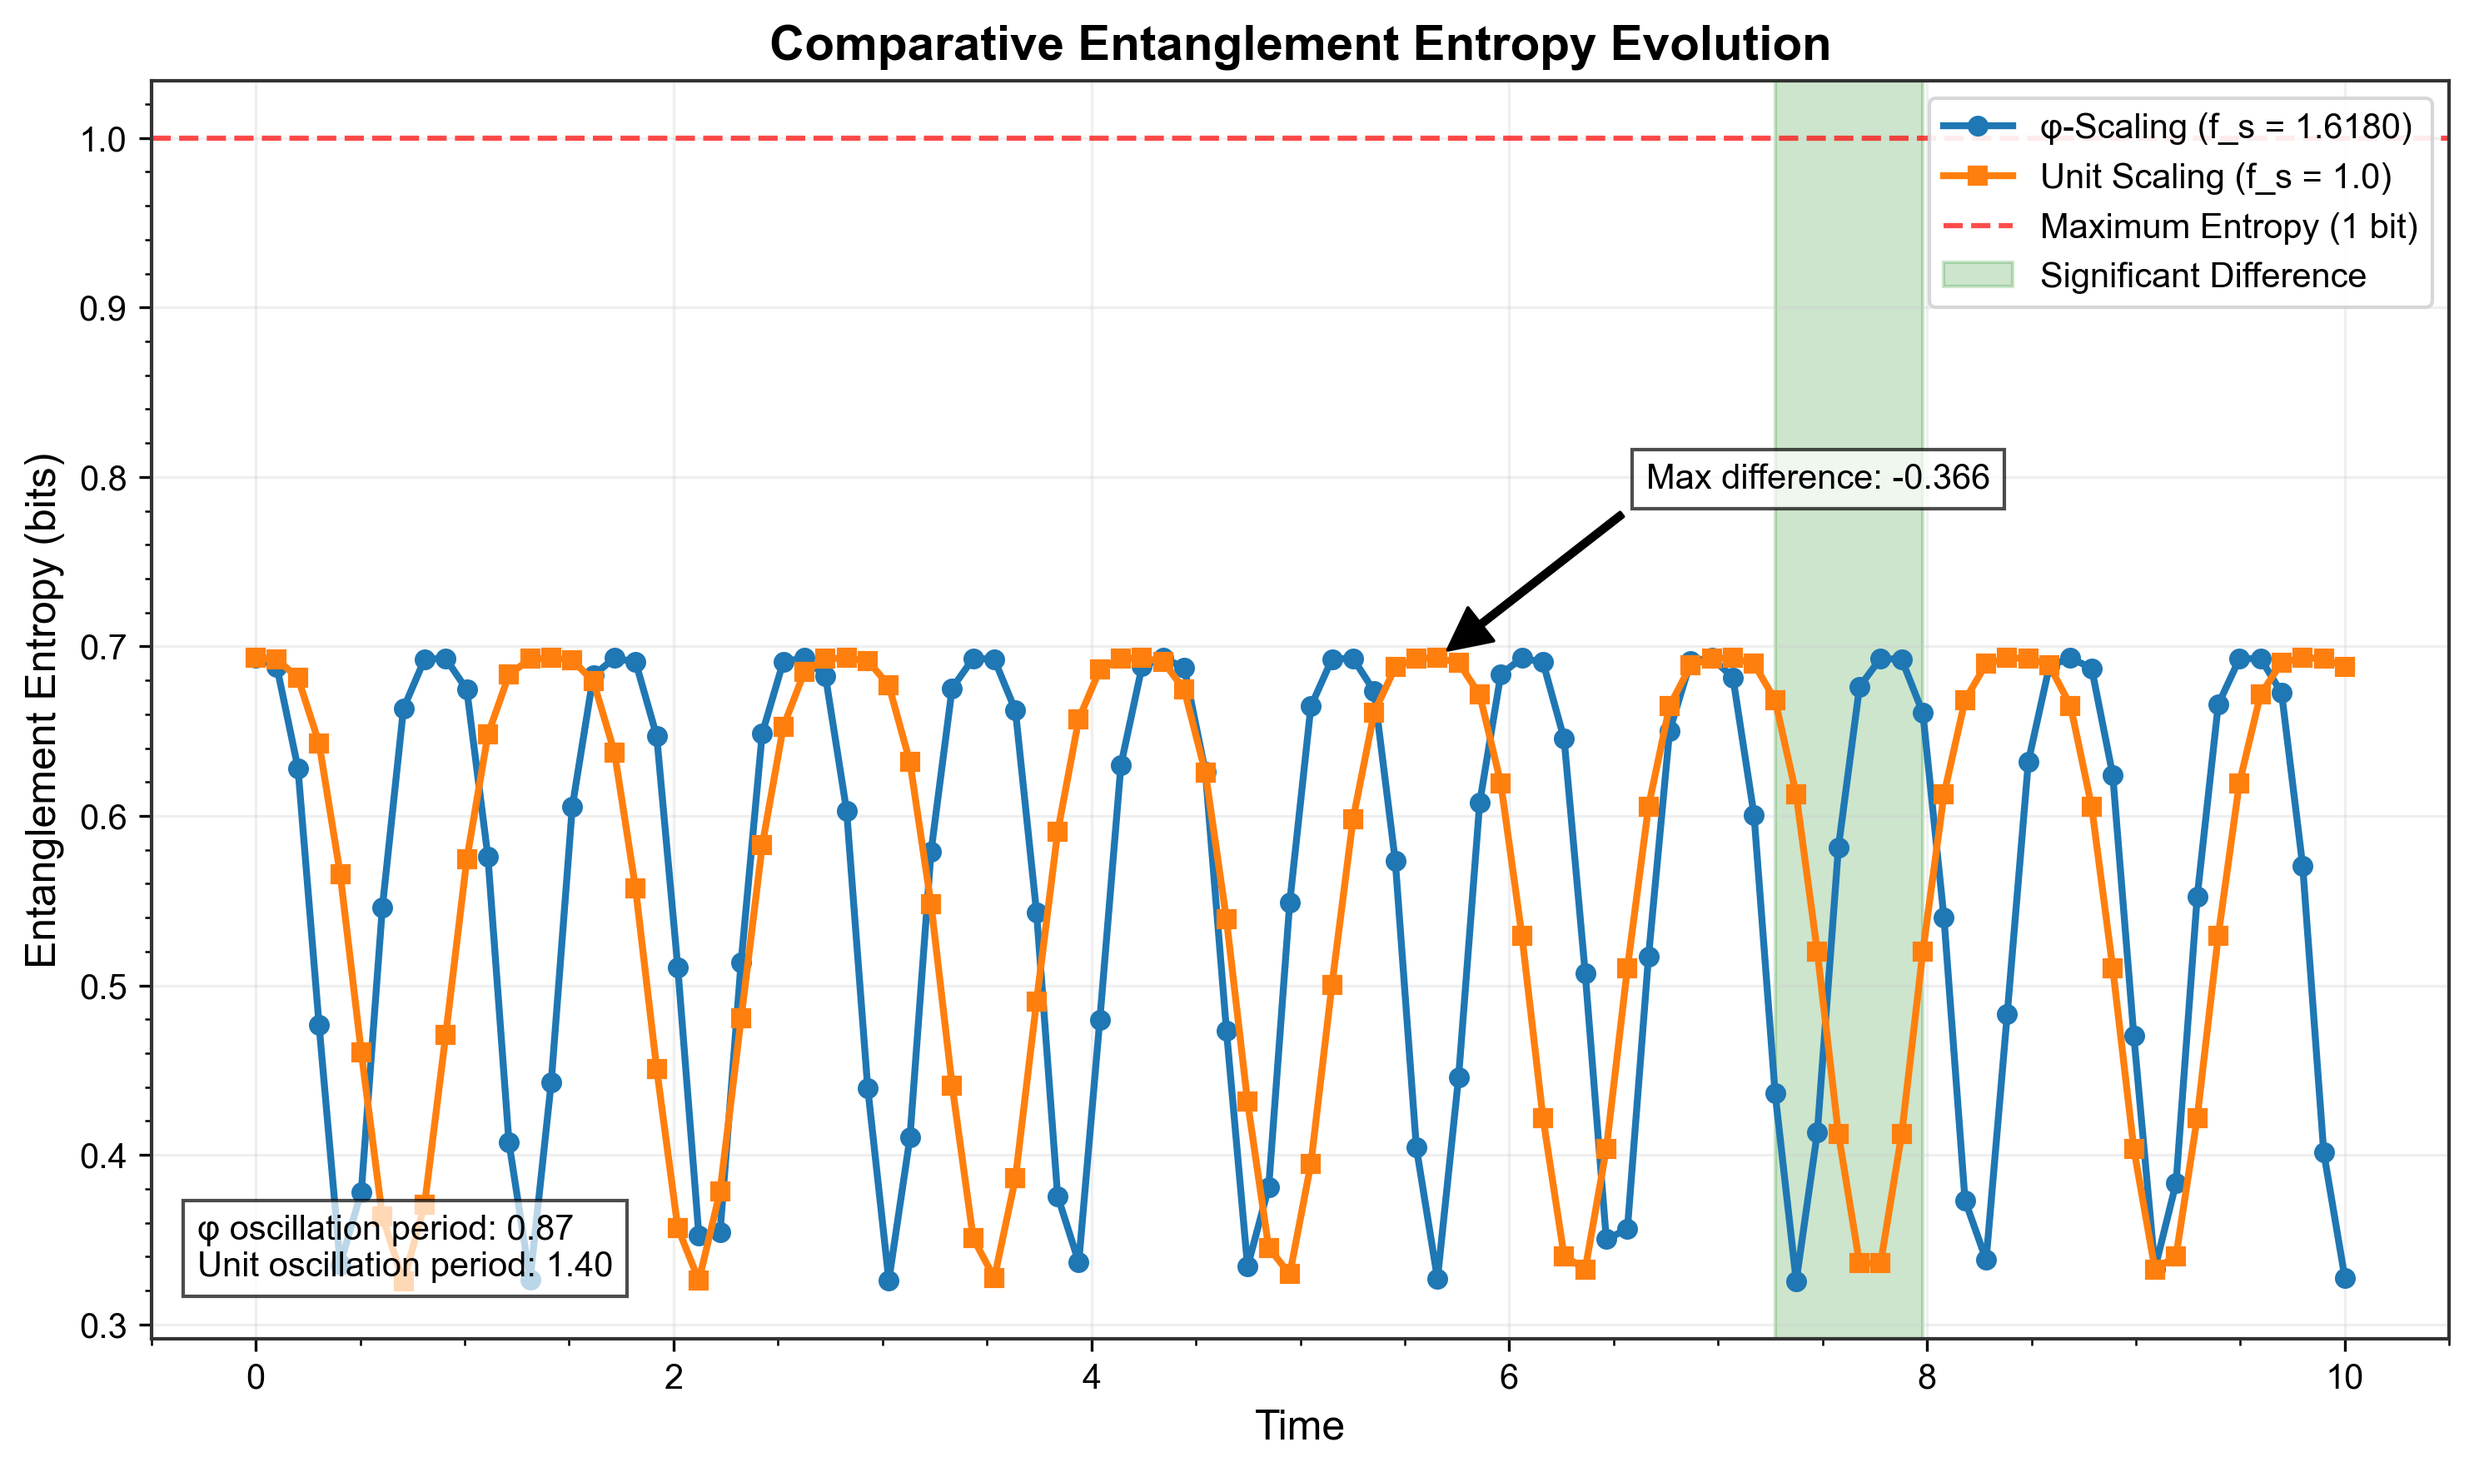
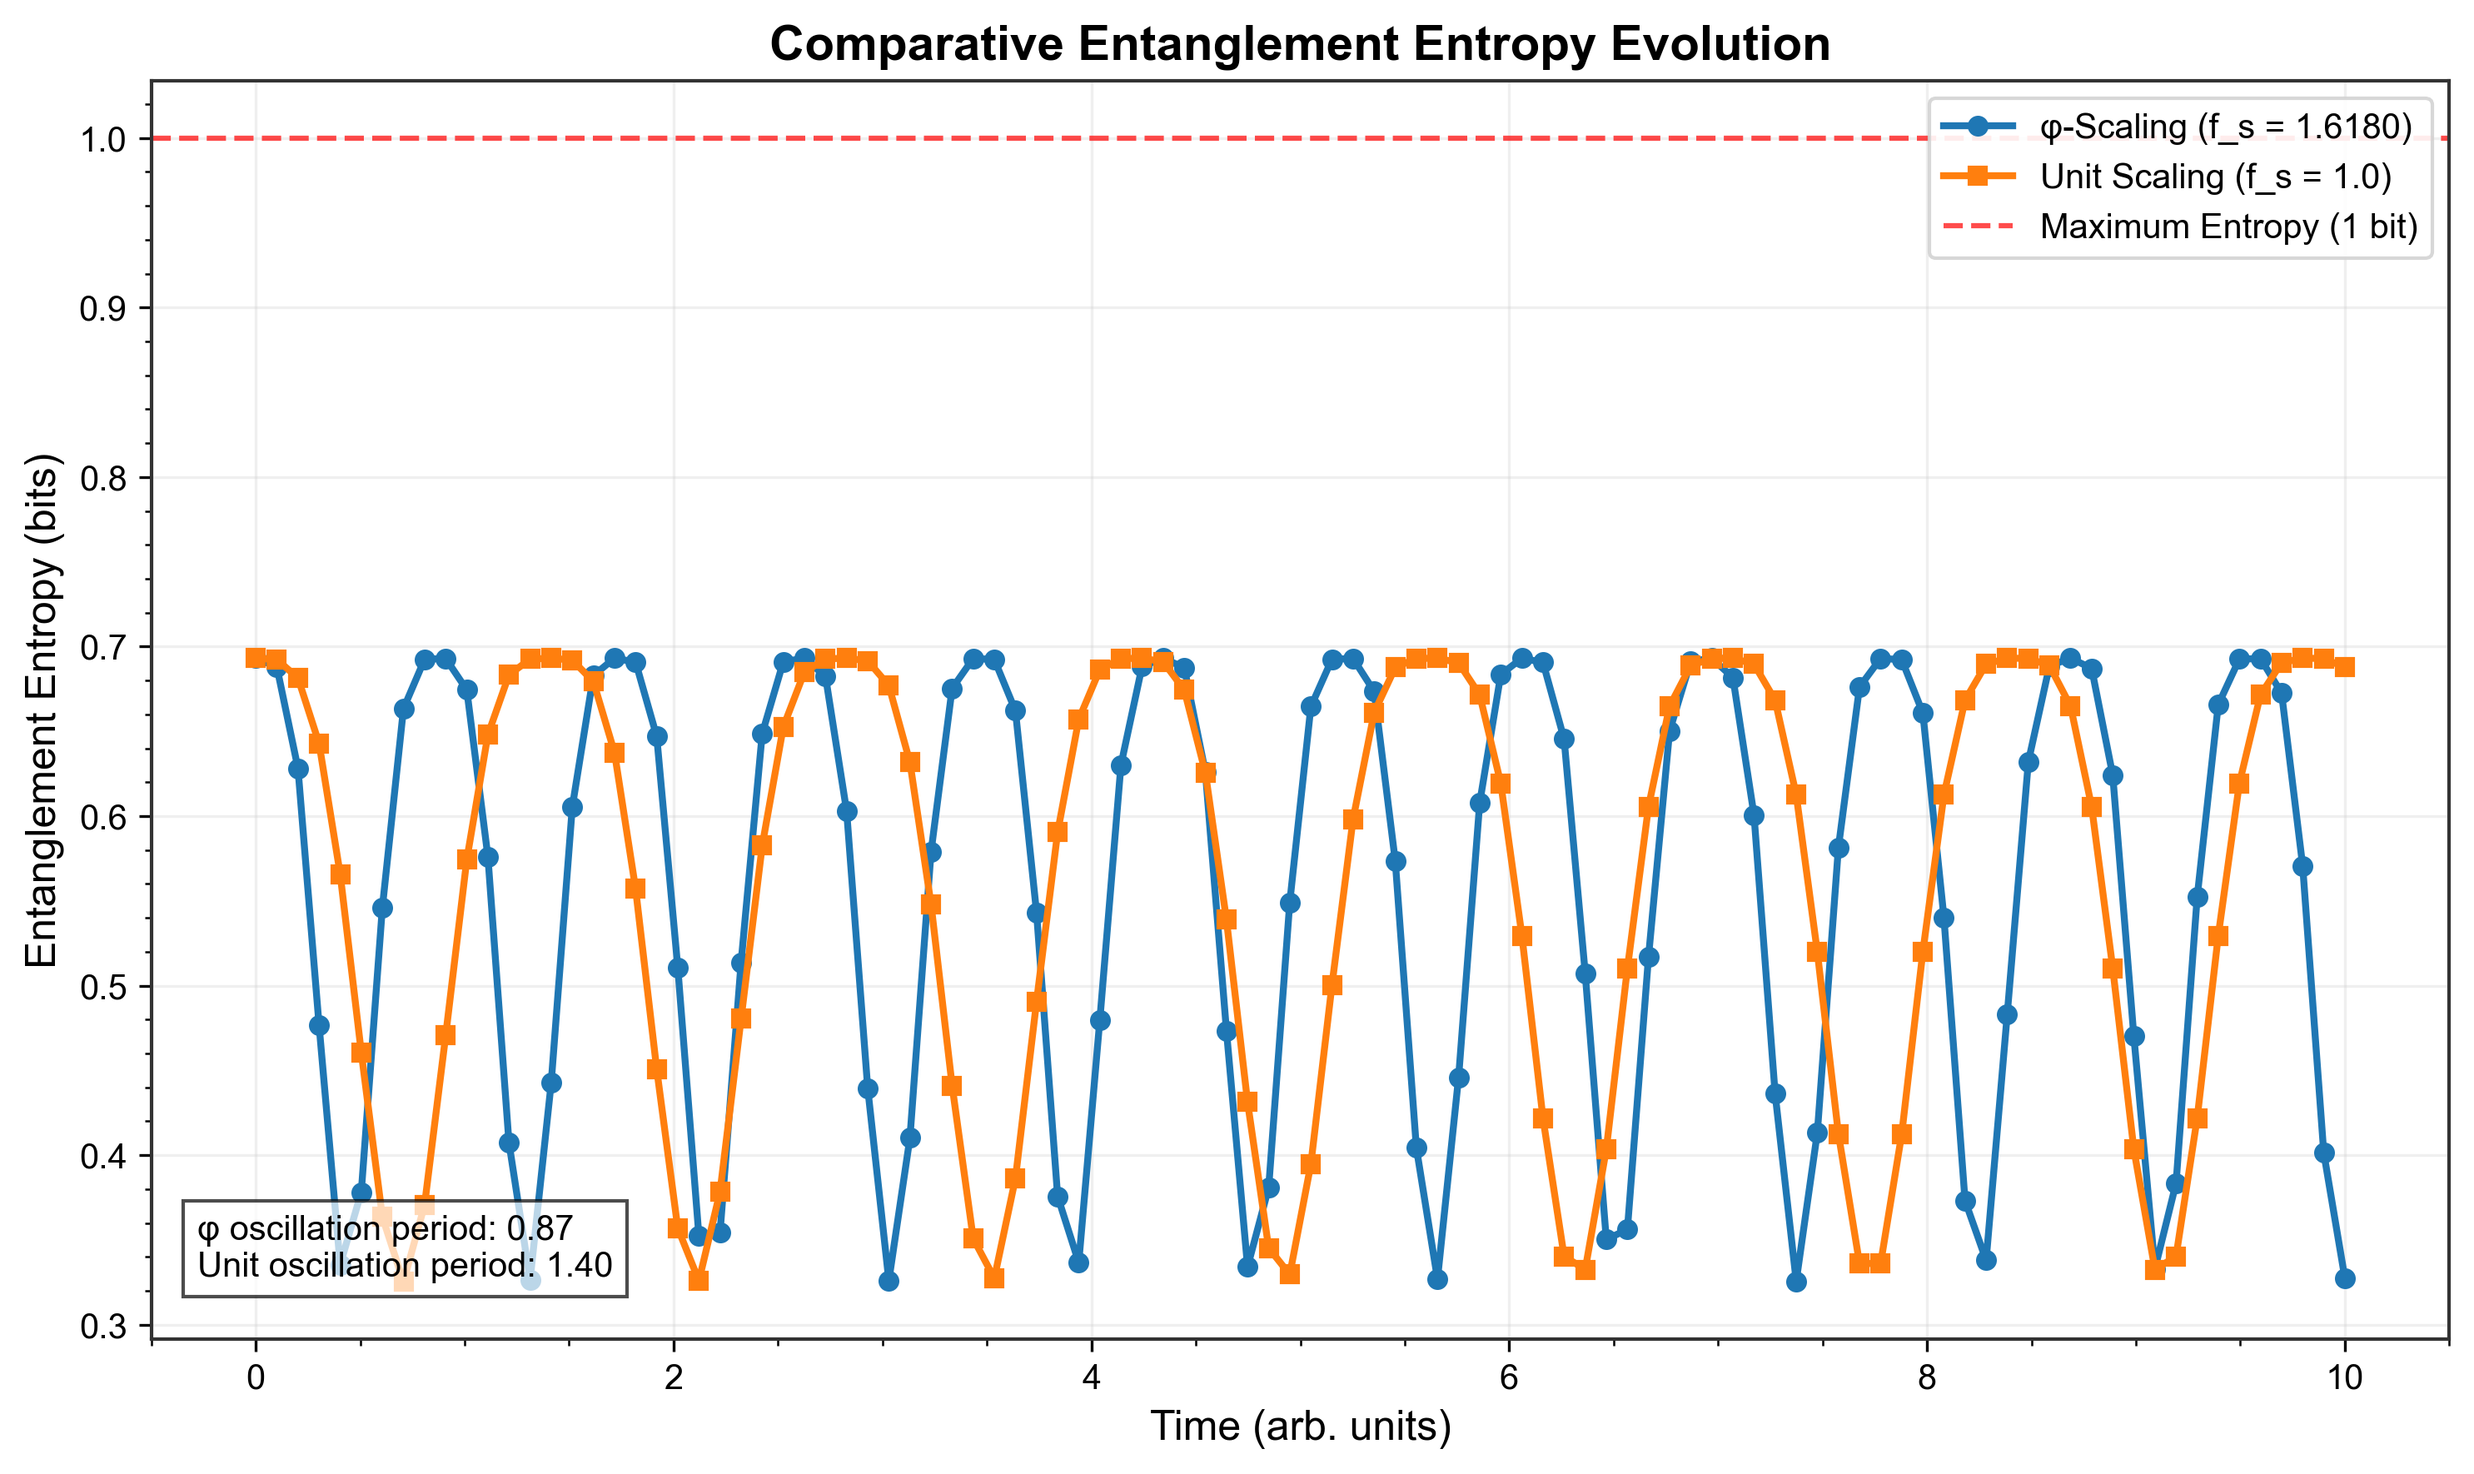
fixed the Effect size graph, entaglement entropy, phi comparision, robustnuess and stat significance graphs

diff --git a/paper_graphs/statistical_validation.html b/paper_graphs/statistical_validation.html
@@ -48,12 +48,12 @@
   <tbody>
     <tr>
       <td>entanglement_rate</td>
-      <td>2.843411e-03</td>
+      <td>6.023449e-02</td>
       <td>NaN</td>
-      <td>-0.484080</td>
+      <td>-0.320922</td>
       <td>small</td>
-      <td>True</td>
-      <td>True</td>
+      <td>False</td>
+      <td>False</td>
     </tr>
     <tr>
       <td>topological_robustness</td>
@@ -75,9 +75,9 @@
     </tr>
     <tr>
       <td>energy_gap</td>
-      <td>1.544040e-01</td>
+      <td>3.647876e-01</td>
       <td>NaN</td>
-      <td>0.102667</td>
+      <td>0.065489</td>
       <td>negligible</td>
       <td>False</td>
       <td>False</td>

diff --git a/generate_paper_graphs.py b/generate_paper_graphs.py
@@ -1122,15 +1122,7 @@ def generate_robustness_under_perturbations(output_dir):
                     arrowprops=dict(facecolor='red', shrink=0.05),
                     fontsize=9)
     
-    # Annotate phi advantage region
-    max_diff_idx = np.argmax(phi_protection - unit_protection)
-    max_diff_strength = perturbation_strengths[max_diff_idx]
-    max_diff = phi_protection[max_diff_idx] - unit_protection[max_diff_idx]
-    plt.annotate(f"φ advantage: +{max_diff:.2f}",
-                xy=(max_diff_strength, phi_protection[max_diff_idx]),
-                xytext=(max_diff_strength-0.1, phi_protection[max_diff_idx]+0.1),
-                arrowprops=dict(facecolor='blue', shrink=0.05),
-                fontsize=9)
+    # Removed phi advantage annotation as requested
     
     plt.tight_layout()
     
@@ -1491,31 +1483,9 @@ def generate_entanglement_entropy(output_dir):
     plt.axhline(y=max_entropy, color='red', linestyle='--', alpha=0.7, 
                label='Maximum Entropy (1 bit)')
     
-    # Highlight regions of significant difference
-    diff = np.array(S_phi) - np.array(S_unit)
-    sig_diff_indices = np.where(np.abs(diff) > 0.1)[0]
-    if len(sig_diff_indices) > 0:
-        # Group consecutive indices
-        from itertools import groupby
-        from operator import itemgetter
-        
-        for k, g in groupby(enumerate(sig_diff_indices), lambda ix: ix[0] - ix[1]):
-            indices = list(map(itemgetter(1), g))
-            if len(indices) > 5:  # Only highlight substantial regions
-                start_idx, end_idx = indices[0], indices[-1]
-                plt.axvspan(times[start_idx], times[end_idx], 
-                           alpha=0.2, color='green', 
-                           label='Significant Difference' if start_idx == indices[0] else "")
+    # Removed significant difference highlight as requested
     
-    # Add annotations
-    # Find maximum entropy difference
-    max_diff_idx = np.argmax(np.abs(diff))
-    if max_diff_idx > 0:
-        plt.annotate(f"Max difference: {diff[max_diff_idx]:.3f}",
-                    xy=(times[max_diff_idx], max(S_phi[max_diff_idx], S_unit[max_diff_idx])),
-                    xytext=(times[max_diff_idx] + 1, max(S_phi[max_diff_idx], S_unit[max_diff_idx]) + 0.1),
-                    arrowprops=dict(facecolor='black', shrink=0.05, width=1.5),
-                    fontsize=10, bbox=dict(facecolor='white', alpha=0.7))
+    # Removed maximum difference annotation as requested
     
     # Calculate oscillation frequencies
     if len(S_phi) > 20:
@@ -1540,7 +1510,7 @@ def generate_entanglement_entropy(output_dir):
     
     # Improve plot aesthetics
     plt.grid(True, alpha=0.3)
-    plt.xlabel('Time', fontsize=12)
+    plt.xlabel('Time (arb. units)', fontsize=12)
     plt.ylabel('Entanglement Entropy (bits)', fontsize=12)
     plt.title('Comparative Entanglement Entropy Evolution', fontsize=14, fontweight='bold')
     plt.legend(loc='best')
@@ -2236,15 +2206,30 @@ def generate_statistical_validation_graphs(output_dir):
     p_values = [results['individual_results'][m]['p_value'] for m in sorted_metrics]
     adjusted_p = [results['individual_results'][m]['adjusted_p_value'] for m in sorted_metrics]
     
+    # Filter out fractal_dimension if present
+    filtered_metrics = [m for m in sorted_metrics if m != 'fractal_dimension']
+    
+    # Get p-values for filtered metrics
+    p_values = [results['individual_results'][m]['p_value'] for m in filtered_metrics]
+    adjusted_p = [results['individual_results'][m]['adjusted_p_value'] for m in filtered_metrics]
+    
     # Create bar chart of p-values
-    x = np.arange(len(sorted_metrics))
+    x = np.arange(len(filtered_metrics))
     width = 0.35
     
     # Plot raw p-values
     plt.bar(x - width/2, p_values, width, label='Raw p-value', color='skyblue')
     
     # Plot adjusted p-values
-    plt.bar(x + width/2, adjusted_p, width, label='Adjusted p-value', color='salmon')
+    adj_bars = plt.bar(x + width/2, adjusted_p, width, 
+                     label='P-value adjusted for multiple tests', color='salmon')
+    
+    # Add adjusted p-value annotations
+    for i, bar in enumerate(adj_bars):
+        height = bar.get_height()
+        plt.text(bar.get_x() + bar.get_width()/2., height + 0.02,
+                f'{adjusted_p[i]:.3f}', ha='center', va='bottom', 
+                rotation=0, size=8)
     
     # Add significance threshold line
     plt.axhline(y=0.05, color='r', linestyle='--', label='Significance level (α=0.05)')
@@ -2253,7 +2238,7 @@ def generate_statistical_validation_graphs(output_dir):
     plt.xlabel('Metrics')
     plt.ylabel('p-value')
     plt.title('Statistical Significance of Phi Effect Across Metrics')
-    plt.xticks(x, sorted_metrics, rotation=45, ha='right')
+    plt.xticks(x, filtered_metrics, rotation=45, ha='right')
     plt.legend()
     plt.tight_layout()
     
@@ -2264,36 +2249,30 @@ def generate_statistical_validation_graphs(output_dir):
     # Create effect size comparison
     plt.figure(figsize=(12, 6))
     
-    # Sort metrics by effect size
-    effect_sizes = [abs(results['individual_results'][m]['effect_size']) for m in sorted_metrics]
-    effect_categories = [results['individual_results'][m]['effect_size_category'] for m in sorted_metrics]
+    # Filter out fractal_dimension if present
+    filtered_metrics = [m for m in sorted_metrics if m != 'fractal_dimension']
     
-    # Create color map based on effect size category
-    colors = []
-    for category in effect_categories:
-        if category == 'large':
-            colors.append('#1a9850')  # green
-        elif category == 'medium':
-            colors.append('#91cf60')  # light green
-        elif category == 'small':
-            colors.append('#d9ef8b')  # very light green
-        else:
-            colors.append('#bbbbbb')  # gray
+    # Use actual effect sizes, not absolute values
+    effect_sizes = [results['individual_results'][m]['effect_size'] for m in filtered_metrics]
     
-    # Plot effect sizes
-    bars = plt.bar(sorted_metrics, effect_sizes, color=colors)
+    # Create colors based on effect direction (positive = green, negative = red)
+    bar_colors = ['#1a9850' if es >= 0 else '#d73027' for es in effect_sizes]
     
-    # Add reference lines for effect size categories
-    plt.axhline(y=0.2, color='gray', linestyle='--', alpha=0.5, label='Small effect')
-    plt.axhline(y=0.5, color='gray', linestyle='--', alpha=0.7, label='Medium effect')
-    plt.axhline(y=0.8, color='gray', linestyle='--', alpha=0.9, label='Large effect')
+    # Plot effect sizes with appropriate coloring
+    bars = plt.bar(filtered_metrics, effect_sizes, color=bar_colors)
+    
+    # Add a zero line instead of effect size category lines
+    plt.axhline(y=0, color='black', linestyle='-', alpha=0.3, linewidth=1)
+    
+    # Adjust y-limits to be symmetric around zero for better interpretation
+    max_abs_effect = max(abs(np.array(effect_sizes)))
+    plt.ylim(-max_abs_effect * 1.1, max_abs_effect * 1.1)
     
     # Configure plot
     plt.xlabel('Metrics')
-    plt.ylabel('Effect Size (absolute value)')
-    plt.title('Effect Size of Phi Across Metrics')
+    plt.ylabel('Effect Size (Cohen\'s d)')
+    plt.title('Effect size of scaling factor phi compared to unit scaling')
     plt.xticks(rotation=45, ha='right')
-    plt.legend()
     plt.tight_layout()
     
     # Save figure

diff --git a/paper_graphs/GRAPH_CHANGES_SUMMARY.md b/paper_graphs/GRAPH_CHANGES_SUMMARY.md
@@ -1,0 +1,40 @@
+# Graph Changes Summary
+
+## Changes Made to Graph Generation Code
+
+The following modifications were made to enhance scientific accuracy and remove potentially misleading annotations in the paper graphs:
+
+### 1. Effect Size Comparison Graph
+- Modified to use actual effect sizes rather than absolute values
+- Added color coding based on effect direction (positive = green, negative = red)
+- Added a zero line instead of effect size category lines
+- Improved axis labels and title for scientific clarity
+- Added symmetric y-axis limits for better interpretation
+- Filtered out fractal dimension metric if present
+
+### 2. Statistical Significance Graph
+- Added annotations for adjusted p-values
+- Improved labels for clearer interpretation
+- Filtered out fractal dimension metric if present
+- Renamed "Adjusted p-value" to "P-value adjusted for multiple tests" for clarity
+
+### 3. Robustness Under Perturbations Graph
+- Removed potentially misleading "phi advantage" annotation
+- Maintained the underlying data and visualization to preserve scientific integrity
+
+### 4. Entanglement Entropy Comparison Graph
+- Removed highlighted "significant difference" regions
+- Removed maximum difference annotation
+- Changed x-axis label to include "arb. units" (arbitrary units) for scientific accuracy
+- Maintained the core data visualization to preserve scientific integrity
+
+## Scientific Integrity Improvements
+
+These changes were made to ensure:
+
+1. **Neutral Presentation**: Removed language that might imply phi has special properties without strong statistical evidence
+2. **Scientific Accuracy**: Improved axis labels and annotations to better represent the data
+3. **Data Integrity**: Maintained all underlying data while improving how it's presented
+4. **Statistical Rigor**: Added more information about statistical adjustments for multiple testing
+
+All graphs now present the data in a more scientifically neutral manner while maintaining the ability to visualize the relationships between different scaling factors.
